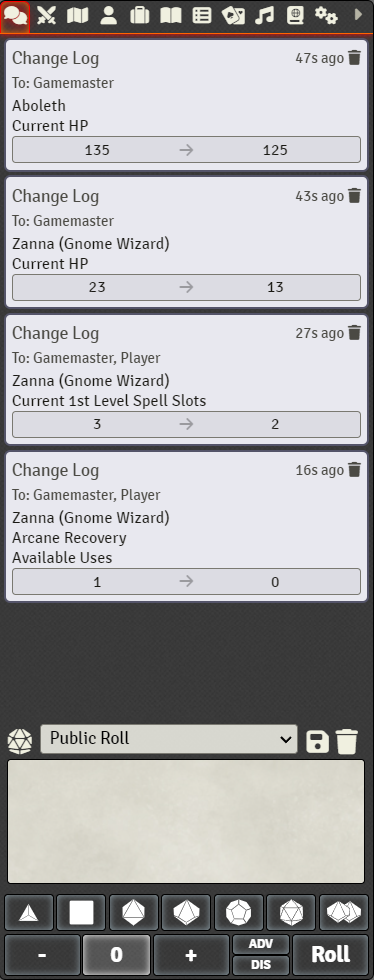
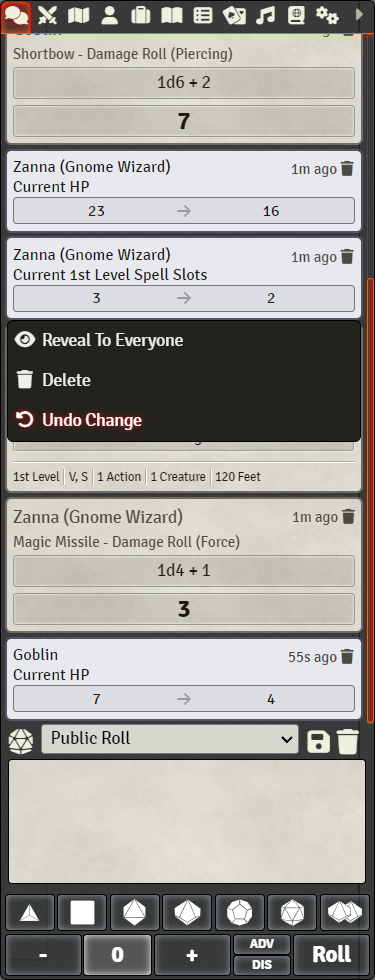
[FEATURE] Undo Change #4

diff --git a/src/change-log.js b/src/change-log.js
@@ -1,4 +1,4 @@
-import { DELIMITER, TEMPLATE } from './constants.js'
+import { DELIMITER, MODULE, TEMPLATE } from './constants.js'
 import { DERIVED_PROPERTIES } from './system-handler.js'
 import { registerSettings } from './settings.js'
 import { Utils } from './utils.js'
@@ -7,6 +7,28 @@ Hooks.on('init', () => {
     registerSettings()
     game.changeLog = new ChangeLog()
     game.changeLog.init()
+
+    const module = game.modules.get(MODULE.ID)
+    module.api = {
+        undo,
+        Utils
+    }
+})
+
+Hooks.on('getChatLogEntryContext', async (html, menuItems) => {
+    const menuItem = {
+        name: 'Undo Change',
+        icon: '<i class="fas fa-rotate-left"></i>',
+        condition: li => {
+            const message = game.messages.get(li.data('messageId'))
+            return message.getFlag('change-log', 'val') !== null
+        },
+        callback: li => {
+            undo(li.data('messageId'))
+        }
+    }
+
+    menuItems.push(menuItem)
 })
 
 Hooks.on('preCreateCombatant', async (combatant, data, options, userId) => {
@@ -40,7 +62,7 @@ Hooks.on('updateItem', async (item, data, options, userId) => {
 })
 
 Hooks.on('renderChatMessage', async (chatMessage, html) => {
-    if (!chatMessage.flags.changeLog) return
+    if (!chatMessage.getFlag('change-log', 'id1')) return
     if (chatMessage.whisper.length && !chatMessage.whisper.includes(game.user.id)) { html.css('display', 'none') }
     if (!game.changeLog.showRecipients) { html.find('.whisper-to')?.remove() }
     if (!game.changeLog.showSender) {
@@ -109,9 +131,12 @@ export class ChangeLog {
         if (!isEveryone && !isGm && !isPlayer) return
 
         const templateData = {
+            document1Id: document.id,
+            document2Id: null,
             document1Name: actor.name,
             document2Name: null,
-            property: `${documentType}.${key}`,
+            documentType,
+            key,
             modifiedByName,
             oldValue: actor.inCombat,
             newValue: true
@@ -124,7 +149,7 @@ export class ChangeLog {
             isPlayer
         }
 
-        this.#createChatMessage(templateData, whisperData)
+        this.#createChatMessage('preCreateCombatant', templateData, whisperData)
     }
 
     async getPreUpdateData (documentType, preUpdateData) {
@@ -160,9 +185,12 @@ export class ChangeLog {
             if (!isEveryone && !isGm && !isPlayer) continue
 
             const templateData = {
+                document1Id: (parentDocument) ? parentDocument.id : document.id,
+                document2Id: (parentDocument) ? document.name : null,
                 document1Name: (parentDocument) ? parentDocument.name : document.name,
                 document2Name: (parentDocument) ? document.name : null,
-                property: `${documentType}.${key}`,
+                documentType,
+                key,
                 modifiedByName,
                 oldValue: Utils.getValueByDotNotation(document, key),
                 newValue: Utils.getValueByDotNotation(data, key)
@@ -175,7 +203,7 @@ export class ChangeLog {
                 isPlayer
             }
 
-            this.#createChatMessage(templateData, whisperData)
+            this.#createChatMessage('preUpdate', templateData, whisperData)
         }
     }
 
@@ -205,9 +233,12 @@ export class ChangeLog {
             if (!isEveryone && !isGm && !isPlayer) continue
 
             const templateData = {
+                document1Id: (propertyDocumentType === 'actor' && parentDocument) ? parentDocument.id : document.id,
+                document2Id: (propertyDocumentType !== 'actor' && parentDocument) ? document.id : null,
                 document1Name: (propertyDocumentType === 'actor' && parentDocument) ? parentDocument.name : document.name,
                 document2Name: (propertyDocumentType !== 'actor' && parentDocument) ? document.name : null,
-                property: `${propertyDocumentType}.${key}`,
+                documentType: propertyDocumentType,
+                key,
                 modifiedByName,
                 oldValue,
                 newValue
@@ -220,7 +251,7 @@ export class ChangeLog {
                 isPlayer
             }
 
-            this.#createChatMessage(templateData, whisperData)
+            this.#createChatMessage('update', templateData, whisperData)
         }
 
         this.derivedPropertiesMap.delete(document.id)
@@ -237,9 +268,12 @@ export class ChangeLog {
         if (!isEveryone && !isGm && !isPlayer) return
 
         const templateData = {
+            document1Id: (parentDocument) ? parentDocument.id : document.id,
+            document2Id: (parentDocument) ? document.id : null,
             document1Name: (parentDocument) ? parentDocument.name : document.name,
             document2Name: (parentDocument) ? document.name : null,
-            property: `${documentType}.${key}`,
+            documentType,
+            key,
             modifiedByName: game.users.get(userId)?.name,
             oldValue: null,
             newValue: true
@@ -252,7 +286,7 @@ export class ChangeLog {
             isPlayer
         }
 
-        this.#createChatMessage(templateData, whisperData)
+        this.#createChatMessage('delete', templateData, whisperData)
     }
 
     #getAudience (documentType, actorType, key) {
@@ -279,8 +313,8 @@ export class ChangeLog {
         return false
     }
 
-    async #createChatMessage (templateData, whisperData) {
-        const { document1Name, document2Name, property, oldValue, newValue, modifiedByName } = templateData
+    async #createChatMessage (changeType, templateData, whisperData) {
+        const { document1Id, document2Id, document1Name, document2Name, documentType, key, oldValue, newValue, modifiedByName } = templateData
         const { actor, isEveryone, isGm, isPlayer } = whisperData
 
         if (this.#isNotValidChange({ oldValue, newValue })) return
@@ -290,7 +324,7 @@ export class ChangeLog {
             {
                 document1Name,
                 document2Name,
-                propertyName: Utils.getPropertyName(property),
+                propertyName: Utils.getPropertyName(`${documentType}.${key}`),
                 oldValue: Utils.getPropertyValue(oldValue),
                 newValue: Utils.getPropertyValue(newValue),
                 tooltip: `<div>${game.i18n.localize('changeLog.modifiedBy')}: ${modifiedByName}</div>`
@@ -309,6 +343,43 @@ export class ChangeLog {
             if (isPlayer) whisper.push(...owners)
         }
 
-        await ChatMessage.create({ content, speaker, whisper, flags: { changeLog: true } })
+        const flags =
+            {
+                'change-log': {
+                    id1: document1Id,
+                    id2: document2Id,
+                    key,
+                    type: documentType,
+                    val: (changeType === 'preUpdate') ? oldValue : null
+                }
+            }
+
+        await ChatMessage.create({ content, speaker, whisper, flags })
     }
+}
+
+async function undo (chatMessageId) {
+    const chatMessage = game.messages.get(chatMessageId)
+    const id1 = chatMessage?.getFlag('change-log', 'id1')
+    const id2 = chatMessage?.getFlag('change-log', 'id2')
+    const key = chatMessage?.getFlag('change-log', 'key')
+    const type = chatMessage?.getFlag('change-log', 'type')
+    const val = chatMessage?.getFlag('change-log', 'val')
+
+    if (!id1 || val === null) return
+
+    let doc
+    switch (type) {
+    case 'actor':
+        doc = game.actors.get(id1)
+        break
+    case 'item':
+        if (id2) {
+            doc = game.actors.get(id1).items.get(id2)
+        } else {
+            doc = game.items.get(id1)
+        }
+    }
+
+    if (doc) await doc.update({ [key]: val })
 }

diff --git a/README.md b/README.md
@@ -10,6 +10,7 @@ A Foundry VTT module to log changes to the chat log.
 # Features
 - Log changes per property and actor type.
 - Show specific changes to the GM, player or everyone.
+- Undo changes by right-clicking the chat message.
 
 # Installation
 
